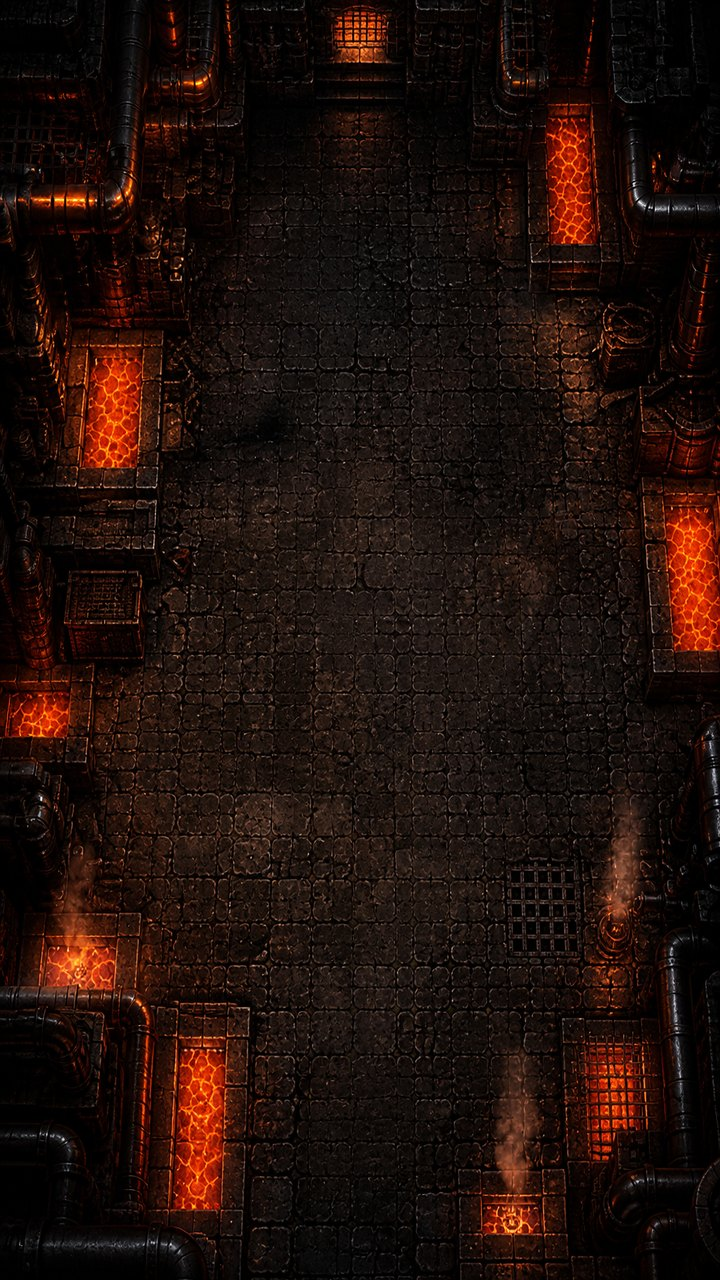
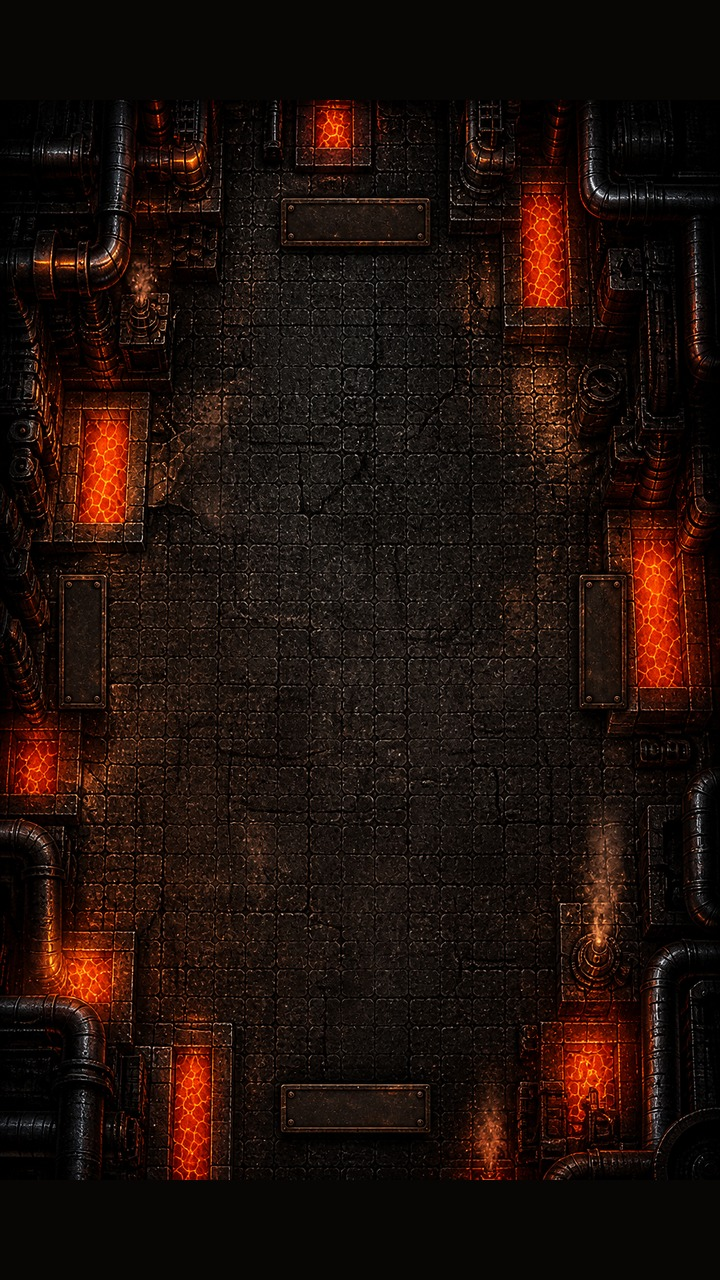
fix: unlock hero/tour selection and match reference arena visuals
Raise modal z-index above the fullscreen arena, make hero and tour cards
clickable with checkpoint abandon flow, auto-strip white PNG backdrops on
enemy sprites, and hide procedural wireframe overlays when room plates load.
Regenerate Forge Depths room plates and forge-spider sprite.

diff --git a/src/ui/app.js b/src/ui/app.js
@@ -104,6 +104,7 @@ export function bootstrapApp() {
     selectedTourDistrict: requiredElement("selected-tour-district"),
     selectedTourRoute: requiredElement("selected-tour-route"),
     changeTour: requiredElement("change-tour"),
+    selectedTourCard: requiredElement("selected-tour-card"),
     tourOverlay: requiredElement("tour-overlay"),
     tourGrid: requiredElement("tour-grid"),
     closeTourSelect: requiredElement("close-tour-select"),
@@ -117,6 +118,7 @@ export function bootstrapApp() {
     wagerInput: requiredElement("wager-input"),
     wagerAll: requiredElement("wager-all"),
     homeNotice: requiredElement("home-notice"),
+    abandonCheckpoint: requiredElement("abandon-checkpoint"),
     abortRun: requiredElement("abort-run"),
     pauseRun: requiredElement("pause-run"),
     attackButton: requiredElement("attack-button"),
@@ -295,6 +297,57 @@ export function bootstrapApp() {
     elements.changeHero.disabled = Boolean(checkpoint);
     elements.changeTour.disabled = Boolean(checkpoint);
     elements.openInventory.disabled = Boolean(checkpoint);
+    elements.selectedHeroCard.classList.toggle("is-locked", Boolean(checkpoint));
+    elements.selectedTourCard.classList.toggle("is-locked", Boolean(checkpoint));
+    elements.abandonCheckpoint.hidden = !checkpoint;
+  };
+
+  const ensureSelectionUnlocked = () => {
+    if (!profileStore.profile.activeRun) {
+      return true;
+    }
+    const confirmed = window.confirm(
+      "Сбросить сохранённый забег, чтобы выбрать другого героя или тур?",
+    );
+    if (!confirmed) {
+      elements.homeNotice.textContent = "Сохранённый забег не сброшен. Нажмите «Сбросить сохранённый забег» ниже.";
+      elements.abandonCheckpoint.classList.add("is-highlighted");
+      window.setTimeout(() => elements.abandonCheckpoint.classList.remove("is-highlighted"), 2400);
+      return false;
+    }
+    abandonSavedRun();
+    return true;
+  };
+
+  const openHeroSelect = () => {
+    if (!ensureSelectionUnlocked()) {
+      return;
+    }
+    renderHeroGrid();
+    elements.tourOverlay.hidden = true;
+    elements.equipmentOverlay.hidden = true;
+    elements.heroOverlay.hidden = false;
+  };
+
+  const openTourSelect = () => {
+    if (!ensureSelectionUnlocked()) {
+      return;
+    }
+    renderTourGrid();
+    elements.heroOverlay.hidden = true;
+    elements.equipmentOverlay.hidden = true;
+    elements.tourOverlay.hidden = false;
+  };
+
+  const abandonSavedRun = () => {
+    if (!profileStore.profile.activeRun) {
+      return;
+    }
+    profileStore.update((draft) => {
+      draft.activeRun = null;
+    });
+    elements.homeNotice.textContent = "Сохранённый забег сброшен. Выберите героя и тур.";
+    renderProfile(profileStore.profile);
   };
 
   const renderSelectedTour = () => {
@@ -653,7 +706,7 @@ export function bootstrapApp() {
   renderHeroGrid();
   renderProfile(profileStore.profile);
   if (profileStore.profile.activeRun) {
-    elements.homeNotice.textContent = "SAFE CHECKPOINT FOUND. RESUME WITHOUT ANOTHER ENTRY CHARGE.";
+    elements.homeNotice.textContent = "Найден сохранённый забег. Продолжите или сбросьте, чтобы выбрать другого героя и тур.";
   }
   game.startLoop();
   const renderAudioToggle = () => {
@@ -797,27 +850,41 @@ export function bootstrapApp() {
     game.requestManualAttack();
   });
 
-  elements.changeHero.addEventListener("click", () => {
-    renderHeroGrid();
-    elements.tourOverlay.hidden = true;
-    elements.equipmentOverlay.hidden = true;
-    elements.heroOverlay.hidden = false;
+  elements.changeHero.addEventListener("click", (event) => {
+    event.stopPropagation();
+    openHeroSelect();
+  });
+
+  elements.selectedHeroCard.addEventListener("click", openHeroSelect);
+  elements.selectedHeroCard.addEventListener("keydown", (event) => {
+    if (event.key === "Enter" || event.key === " ") {
+      event.preventDefault();
+      openHeroSelect();
+    }
   });
 
   elements.closeHeroSelect.addEventListener("click", () => {
     elements.heroOverlay.hidden = true;
   });
 
-  elements.changeTour.addEventListener("click", () => {
-    renderTourGrid();
-    elements.heroOverlay.hidden = true;
-    elements.equipmentOverlay.hidden = true;
-    elements.tourOverlay.hidden = false;
+  elements.changeTour.addEventListener("click", (event) => {
+    event.stopPropagation();
+    openTourSelect();
+  });
+
+  elements.selectedTourCard.addEventListener("click", openTourSelect);
+  elements.selectedTourCard.addEventListener("keydown", (event) => {
+    if (event.key === "Enter" || event.key === " ") {
+      event.preventDefault();
+      openTourSelect();
+    }
   });
 
   elements.closeTourSelect.addEventListener("click", () => {
     elements.tourOverlay.hidden = true;
   });
+
+  elements.abandonCheckpoint.addEventListener("click", abandonSavedRun);
 
   elements.openInventory.addEventListener("click", openInventory);
 

diff --git a/styles/main.css b/styles/main.css
@@ -588,6 +588,42 @@ h1 span {
   background: var(--hero-accent);
 }
 
+.hero-contract-selectable,
+.tour-contract-selectable {
+  cursor: pointer;
+  transition: border-color 160ms ease, transform 160ms ease;
+}
+
+.hero-contract-selectable:hover,
+.tour-contract-selectable:hover,
+.hero-contract-selectable:focus-visible,
+.tour-contract-selectable:focus-visible {
+  border-color: var(--gold);
+  outline: none;
+  transform: translateY(-1px);
+}
+
+.hero-contract-selectable.is-locked,
+.tour-contract-selectable.is-locked {
+  opacity: 0.72;
+}
+
+.abandon-checkpoint {
+  width: min(100%, 440px);
+  margin: 0 0 10px;
+}
+
+.abandon-checkpoint.is-highlighted {
+  border-color: var(--gold);
+  box-shadow: 0 0 0 2px rgba(230, 180, 97, 0.35), 0 0 28px rgba(228, 81, 34, 0.25);
+  animation: abandon-pulse 680ms ease-in-out 2;
+}
+
+@keyframes abandon-pulse {
+  0%, 100% { transform: scale(1); }
+  50% { transform: scale(1.02); }
+}
+
 .hero-change {
   align-self: stretch;
   padding: 0 9px;
@@ -1132,7 +1168,7 @@ h1 span {
 .modal-layer {
   position: fixed;
   inset: 0;
-  z-index: 10;
+  z-index: 60;
   display: grid;
   place-items: center;
   padding: calc(20px + var(--safe-top)) 18px calc(20px + var(--safe-bottom));
@@ -1646,7 +1682,7 @@ h1 span {
 
 .update-banner {
   position: fixed;
-  z-index: 30;
+  z-index: 55;
   left: 50%;
   bottom: calc(18px + var(--safe-bottom));
   width: min(calc(100% - 28px), 520px);
@@ -1939,7 +1975,7 @@ body.arena-active .noise {
   right: 0;
   bottom: 0;
   display: grid;
-  grid-template-columns: 1fr minmax(0, 1.45fr) 1fr;
+  grid-template-columns: minmax(108px, 1fr) minmax(0, 1.55fr) minmax(108px, 1fr);
   gap: 10px;
   align-items: end;
   padding: 10px 10px calc(10px + var(--safe-bottom));
@@ -1999,12 +2035,12 @@ body.arena-active .noise {
 
 .dofa-hero-copy strong {
   display: block;
-  overflow: hidden;
+  overflow: visible;
   color: var(--gold);
-  font-size: 0.72rem;
-  letter-spacing: 0.08em;
-  text-overflow: ellipsis;
-  white-space: nowrap;
+  font-size: 0.66rem;
+  letter-spacing: 0.05em;
+  white-space: normal;
+  line-height: 1.15;
 }
 
 .dofa-hero-copy span {

diff --git a/index.html b/index.html
@@ -67,7 +67,7 @@
           <div><span>LIFETIME BEANS</span><strong id="lifetime-beans">0</strong></div>
         </div>
 
-        <article id="selected-hero-card" class="hero-contract" aria-label="Selected hero">
+        <article id="selected-hero-card" class="hero-contract hero-contract-selectable" aria-label="Selected hero" role="button" tabindex="0">
           <div id="selected-hero-portrait" class="hero-portrait" data-hero="honey-badger" aria-hidden="true">
             <canvas id="selected-hero-art" class="hero-art" hidden></canvas>
             <span id="selected-hero-mark">HB</span>
@@ -102,11 +102,11 @@
           <div id="loadout-slots" class="loadout-slots"></div>
         </article>
 
-        <article class="tour-contract" aria-label="Selected tour">
+        <article id="selected-tour-card" class="tour-contract tour-contract-selectable" aria-label="Selected tour" role="button" tabindex="0">
           <div class="tour-copy">
             <span id="selected-tour-code">TOUR 01</span>
-            <strong id="selected-tour-name">THE HOLLOW ROASTERY</strong>
-            <small id="selected-tour-district">FURNACE DISTRICT</small>
+            <strong id="selected-tour-name">ROOTFALL JUNGLE</strong>
+            <small id="selected-tour-district">CANOPY DISTRICT</small>
           </div>
           <div class="tour-route">
             <b>ACTIVE</b>
@@ -126,6 +126,9 @@
         <button id="start-run" class="primary-action" type="button">
           <span id="start-run-label">ENTER TOUR 01</span>
           <small><b id="entry-cost">25</b> BEANS</small>
+        </button>
+        <button id="abandon-checkpoint" class="secondary-action abandon-checkpoint" type="button" hidden>
+          СБРОСИТЬ СОХРАНЁННЫЙ ЗАБЕГ · ВЫБРАТЬ ГЕРОЯ И ТУР
         </button>
         <p id="home-notice" class="notice" role="status" aria-live="polite"></p>
 

diff --git a/src/game/game.js b/src/game/game.js
@@ -3780,7 +3780,6 @@ export class DoffaGame {
 
     if (this.mode !== "idle") {
       this.drawPlayer(context);
-      this.drawJoystick(context);
     } else {
       this.drawIdleSeal(context);
     }
@@ -3848,9 +3847,6 @@ export class DoffaGame {
       context.lineTo(ARENA.right, composite.bandOffset + composite.bandSlope * 74);
       context.stroke();
       context.globalAlpha = 1;
-      context.strokeStyle = `${palette.line}99`;
-      context.lineWidth = 4;
-      context.strokeRect(ARENA.left, ARENA.top, ARENA.right - ARENA.left, ARENA.bottom - ARENA.top);
       context.restore();
     } else {
       const gradient = context.createLinearGradient(0, 0, 0, VIEWPORT.height);
@@ -3885,12 +3881,14 @@ export class DoffaGame {
       this.drawRoomFixtures(context, environment, palette);
     }
 
-    this.drawRoomIdentityOverlay(context, palette, composite);
-    this.drawRoomAtmosphere(context, environment, palette);
-    this.drawRoomHazards(context, palette);
-    this.drawRoomObstacles(context, palette);
-    this.drawRoomDestructibles(context, palette);
-    this.drawArenaDoor(context, palette);
+    if (!roomSprite) {
+      this.drawRoomIdentityOverlay(context, palette, composite);
+      this.drawRoomAtmosphere(context, environment, palette);
+      this.drawRoomHazards(context, palette);
+      this.drawRoomObstacles(context, palette);
+      this.drawRoomDestructibles(context, palette);
+      this.drawArenaDoor(context, palette);
+    }
 
     context.save();
     if (this.waveCountdown !== null) {

diff --git a/src/game/sprite-loader.js b/src/game/sprite-loader.js
@@ -103,6 +103,29 @@ export function removeConnectedMagentaBackdrop(imageData, width, height, extraSe
   );
 }
 
+function shouldStripLightBackdrop(context, width, height) {
+  if (width < 4 || height < 4 || typeof context.getImageData !== "function") {
+    return false;
+  }
+  const pixels = context.getImageData(0, 0, width, height).data;
+  const samplePoints = [
+    [0, 0],
+    [width - 1, 0],
+    [0, height - 1],
+    [width - 1, height - 1],
+    [Math.floor(width / 2), 0],
+    [Math.floor(width / 2), height - 1],
+  ];
+  let lightSamples = 0;
+  for (const [x, y] of samplePoints) {
+    const offset = (y * width + x) * 4;
+    if (isLightNeutralPixel(pixels, offset)) {
+      lightSamples += 1;
+    }
+  }
+  return lightSamples >= 3;
+}
+
 function loadImage(source) {
   return new Promise((resolve, reject) => {
     const image = new Image();
@@ -141,6 +164,10 @@ async function createSpriteCanvas(art) {
       ? removeConnectedMagentaBackdrop
       : removeConnectedLightBackdrop;
     processor(pixels, canvas.width, canvas.height, art.backdropSeeds ?? []);
+    context.putImageData(pixels, 0, 0);
+  } else if (shouldStripLightBackdrop(context, canvas.width, canvas.height)) {
+    const pixels = context.getImageData(0, 0, canvas.width, canvas.height);
+    removeConnectedLightBackdrop(pixels, canvas.width, canvas.height, art.backdropSeeds ?? []);
     context.putImageData(pixels, 0, 0);
   }
 
